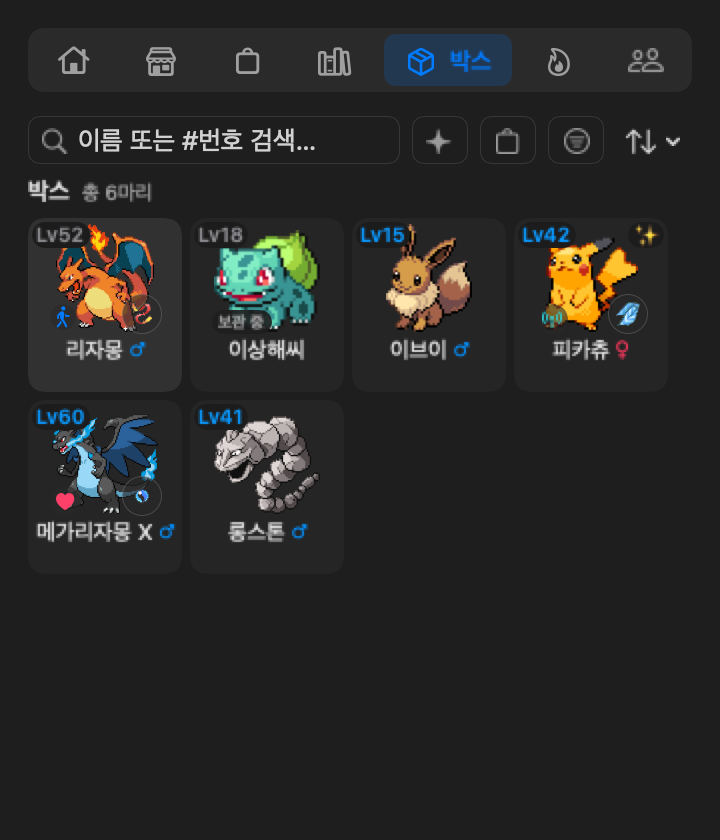
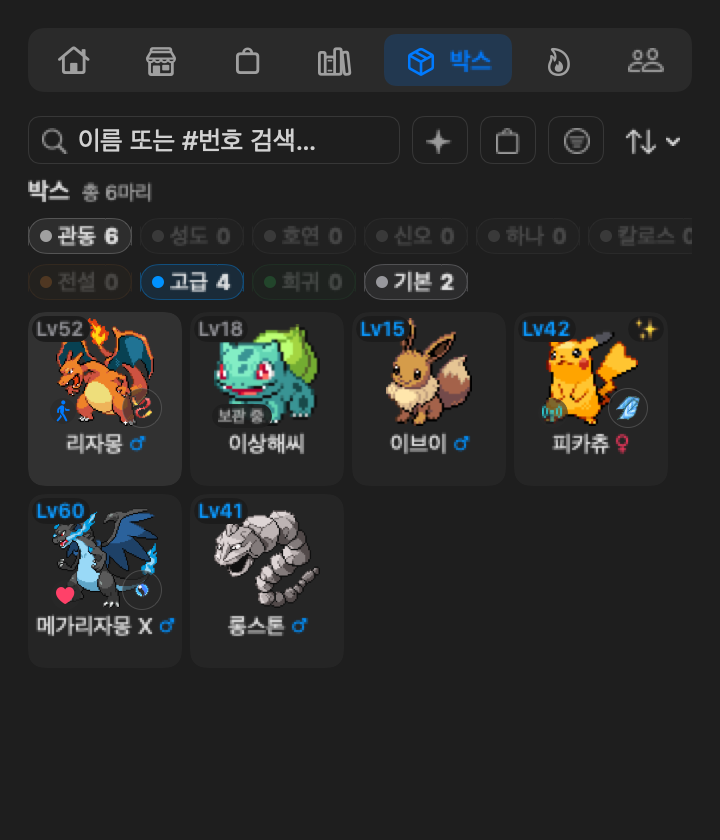
landing: describe the battle sub-tabs, Box region and grade chips and localized move names, and redraw the Box, profile and Home images

Changed region(s): [[0.0306, 0.2476, 0.6722, 0.7738], [0.7028, 0.2476, 0.9167, 0.5571]]

diff --git a/app.js b/app.js
@@ -155,13 +155,13 @@ const I18N = {
     "k3.t": "Lighter costs",
     "k3.d": "Growth costs and Shop prices are one fifth of the original app’s, set for a typical day of about 44M tokens. A Normal line graduates at 150M tokens and a Legendary at 1.2B. Saves from older versions were converted when the change shipped.",
     "k4.t": "Battle tab and gyms",
-    "k4.d": "With the YPoke Slack battle bot linked, the Battle tab lines up to six Pokémon in fighting order; Auto sends the one you are raising. Each region has eight gym leaders, and your team fights at Lv50 or below. A win earns a badge for the badge case and can grant a TM.",
+    "k4.d": "With the YPoke Slack battle bot linked, the Battle tab lines up to six Pokémon in fighting order; Auto sends the one you are raising. Each region has eight gym leaders, and your team fights at Lv50 or below. A win earns a badge for the badge case and can grant a TM. Sub-tabs split the tab into Entry, Battle and History.",
     "alt.gyms": "Native gym list sample with Kanto leaders, the Elite Four, the hideout and the badge case",
     "k5.t": "The Elite Four and the champion",
     "k5.d": "Eight badges open the Elite Four run. The hideout is a run of battles with a full heal before each one, and a loss starts it again. The champion brings the region’s legendaries and hides one more partner, shown as +1 ?, until the first six faint. Beating the champion opens a hidden boss whose first clear pays a strong TM, a shiny legendary egg and Rare Candies. Each gym fight can be replayed turn by turn.",
     "alt.champion": "Native Elite Four run sample where the champion's hidden partner comes out",
     "k6.t": "The Box",
-    "k6.d": "The Box tab holds every Pokémon you own: the one you raise, your friends and your graduates. Search, filter by Shiny or held item, and sort. A new egg sends your current Pokémon here instead of releasing it, and you can pick a graduate to raise again.",
+    "k6.d": "The Box tab holds every Pokémon you own: the one you raise, your friends and your graduates. Search, filter by region, grade, Shiny or held item, and sort. A new egg sends your current Pokémon here instead of releasing it, and you can pick a graduate to raise again.",
     "alt.box": "Native Box tab sample with five Pokémon, their levels, marks and held items",
     "k15.t": "See what comes next",
     "k15.d": "A Pokédex page shows how the species evolves next and what the app asks for, like Munchlax’s 30 pets to become Snorlax. When the Pokémon you raise is on that path, the card shows its progress. On Home, tap the next form to open its page.",
@@ -170,7 +170,7 @@ const I18N = {
     "k7.d": "Equip a held item on a Pokémon’s Box page. The Shop and Bag group battle items by what they do, from attack boosts to weather. A Pokémon holding its Mega Stone Mega Evolves at the start of a battle, and Home, the floating pet and the menu bar show the Mega form.",
     "alt.held": "Native Shop and Bag sample with held items under Attack boost and Type boost",
     "k8.t": "Moves and TMs",
-    "k8.d": "A Pokémon’s Box page lists its four moves, and you can swap one for a level-up, egg or TM move, including status moves like Swords Dance. Buy a TM once in the Shop and every Pokémon that can learn it may use it. Each slot is its own card, and ▲/▼ swap it with its neighbor to set the order.",
+    "k8.d": "A Pokémon’s Box page lists its four moves, and you can swap one for a level-up, egg or TM move, including status moves like Swords Dance. Buy a TM once in the Shop and every Pokémon that can learn it may use it. Each slot is its own card, and ▲/▼ swap it with its neighbor to set the order. Move names follow the app language.",
     "alt.profile": "Native Box detail sample with a Pokémon's stats, held item, Exp. Share slot and moves",
     "k16.t": "Ability, nature, IVs and form",
     "k16.d": "Your Pokémon can field what a gym trainer’s team does. The Mint opens a 5×5 chart and sets the nature you pick. The Ability Capsule and Patch switch abilities, and Bottle Caps raise IVs to 31. The Reveal Glass, DNA Splicers and Reins of Unity switch forms, and a form brings its own types, ability and stats to battle.",
@@ -438,13 +438,13 @@ const I18N = {
     "k3.t": "가벼워진 비용",
     "k3.d": "성장 비용과 상점 가격이 원작의 5분의 1이에요. 하루 44M 토큰쯤 쓰는 보통의 하루에 맞췄어요. 기본 등급 라인은 150M 토큰, 전설은 1.2B 토큰이면 졸업해요. 예전 버전의 저장 데이터는 이 변경이 나갈 때 함께 바뀌었어요.",
     "k4.t": "대결 탭과 체육관",
-    "k4.d": "YPoke 슬랙 대결 봇을 연결하면 대결 탭에 최대 여섯 마리를 나갈 순서대로 세워요. 자동이면 지금 키우는 포켓몬이 나가요. 지방마다 관장이 여덟 명 있고, 내 팀은 Lv50 이하로 맞춰 싸워요. 이기면 배지 케이스에 배지가 들어가고 기술머신을 받을 수도 있어요.",
+    "k4.d": "YPoke 슬랙 대결 봇을 연결하면 대결 탭에 최대 여섯 마리를 나갈 순서대로 세워요. 자동이면 지금 키우는 포켓몬이 나가요. 지방마다 관장이 여덟 명 있고, 내 팀은 Lv50 이하로 맞춰 싸워요. 이기면 배지 케이스에 배지가 들어가고 기술머신을 받을 수도 있어요. 탭 안은 엔트리·배틀·기록으로 나뉘어요.",
     "alt.gyms": "관동 관장·사천왕·아지트·배지 케이스를 보여 주는 실제 체육관 목록 UI 샘플",
     "k5.t": "사천왕과 챔피언",
     "k5.d": "배지 여덟 개면 사천왕 연전이 열려요. 아지트는 판마다 완전히 회복하고 싸우는 연전이고, 지면 처음부터 다시 해요. 챔피언은 그 지방의 전설을 데려오고, +1 ?로만 보이는 파트너 하나를 앞의 여섯 마리가 쓰러질 때까지 숨겨 둬요. 챔피언을 이기면 숨겨진 강자가 열리고, 처음 이기면 강한 기술머신, 빛나는 전설의 알, 이상한사탕을 받아요. 체육관 대결은 턴마다 다시 볼 수 있어요.",
     "alt.champion": "챔피언이 숨긴 파트너가 나오는 실제 사천왕 연전 UI 샘플",
     "k6.t": "박스",
-    "k6.d": "박스 탭에는 키우는 포켓몬, 친구, 졸업한 포켓몬까지 내가 가진 모든 개체가 있어요. 검색하고, 이로치·지닌 도구로 거르고, 정렬할 수 있어요. 새 알을 받으면 지금 포켓몬을 놓아주지 않고 박스로 보내고, 졸업한 포켓몬을 골라 다시 키울 수도 있어요.",
+    "k6.d": "박스 탭에는 키우는 포켓몬, 친구, 졸업한 포켓몬까지 내가 가진 모든 개체가 있어요. 검색하고, 지역·등급·이로치·지닌 도구로 거르고, 정렬할 수 있어요. 새 알을 받으면 지금 포켓몬을 놓아주지 않고 박스로 보내고, 졸업한 포켓몬을 골라 다시 키울 수도 있어요.",
     "alt.box": "포켓몬 다섯 마리의 레벨·표시·지닌 도구가 보이는 실제 박스 탭 UI 샘플",
     "k15.t": "다음 진화가 보이는 도감",
     "k15.d": "도감 페이지에서 그 포켓몬이 다음에 무엇으로 진화하는지, 앱에서는 무엇이 필요한지 보여 줘요. 먹고자는 30번 쓰다듬으면 잠만보가 돼요. 키우는 포켓몬이 그 길 위에 있으면 카드에 진행도가 나와요. 홈에서 다음 모습을 누르면 그 페이지가 열려요.",
@@ -453,7 +453,7 @@ const I18N = {
     "k7.d": "지닌 도구는 포켓몬의 박스 페이지에서 달아요. 상점과 가방은 대결용 도구를 공격 강화부터 날씨까지 하는 일별로 묶어 보여 줘요. 메가스톤을 지닌 포켓몬은 대결이 시작될 때 메가진화하고, 홈·플로팅 펫·메뉴바에도 메가진화한 모습이 보여요.",
     "alt.held": "공격 강화·타입 강화 아래에 지닌 도구가 놓인 실제 상점·가방 UI 샘플",
     "k8.t": "기술과 기술머신",
-    "k8.d": "포켓몬의 박스 페이지에 기술 네 개가 나오고, 레벨업·알 기술이나 기술머신 기술로 하나씩 바꿀 수 있어요. 칼춤 같은 변화 기술도 돼요. 기술머신은 상점에서 한 번 사면 배울 수 있는 모든 포켓몬이 쓸 수 있어요. 기술칸은 칸마다 카드로 나뉘고, ▲/▼로 옆 칸과 자리를 바꿔 순서를 정해요.",
+    "k8.d": "포켓몬의 박스 페이지에 기술 네 개가 나오고, 레벨업·알 기술이나 기술머신 기술로 하나씩 바꿀 수 있어요. 칼춤 같은 변화 기술도 돼요. 기술머신은 상점에서 한 번 사면 배울 수 있는 모든 포켓몬이 쓸 수 있어요. 기술칸은 칸마다 카드로 나뉘고, ▲/▼로 옆 칸과 자리를 바꿔 순서를 정해요. 기술 이름은 앱 언어로 나와요.",
     "alt.profile": "능력치·지닌 도구·학습장치 칸·기술을 보여 주는 실제 박스 상세 UI 샘플",
     "k16.t": "특성·성격·개체값·폼",
     "k16.d": "체육관 트레이너의 팀이 갖출 수 있는 것은 내 포켓몬도 갖출 수 있어요. 민트는 5×5 성격표를 열고 고른 성격으로 바꿔 줘요. 특성캡슐과 특성패치는 특성을 바꾸고, 병뚜껑은 개체값을 31로 올려요. 비추는거울·유전자쐐기·유대의고삐는 폼을 바꾸고, 폼의 타입·특성·능력치가 그대로 배틀에 나가요.",
@@ -721,13 +721,13 @@ const I18N = {
     "k3.t": "軽くなったコスト",
     "k3.d": "成長コストとショップの価格は、オリジナルの5分の1です。1日におよそ44Mトークンを使う、ふつうの1日に合わせています。ノーマルの進化ラインは150Mトークン、伝説は1.2Bトークンで卒業します。古いバージョンのセーブは、この変更のときに一緒に変換されました。",
     "k4.t": "バトルタブとジム",
-    "k4.d": "YPoke の Slack バトルボットと連携すると、バトルタブに最大6匹を出る順に並べられます。自動ならいま育てているポケモンが出ます。地方ごとに8人のジムリーダーがいて、こちらのチームはLv50以下で戦います。勝つとバッジケースにバッジが入り、わざマシンがもらえることもあります。",
+    "k4.d": "YPoke の Slack バトルボットと連携すると、バトルタブに最大6匹を出る順に並べられます。自動ならいま育てているポケモンが出ます。地方ごとに8人のジムリーダーがいて、こちらのチームはLv50以下で戦います。勝つとバッジケースにバッジが入り、わざマシンがもらえることもあります。タブの中はエントリー・バトル・履歴に分かれます。",
     "alt.gyms": "カントーのジムリーダー・四天王・アジト・バッジケースを示す実際のジム一覧UIサンプル",
     "k5.t": "四天王とチャンピオン",
     "k5.d": "バッジ8個で四天王の連戦が開きます。アジトは毎回全回復してから戦う連戦で、負けると最初からやり直しです。チャンピオンはその地方の伝説を連れてきて、+1 ? とだけ表示されるパートナーを、先の6匹がひんしになるまで隠しています。チャンピオンに勝つと隠れた強者が現れ、初勝利で強力なわざマシン、色違いの伝説のタマゴ、ふしぎなアメがもらえます。ジムのバトルはターンごとに見返せます。",
     "alt.champion": "チャンピオンが隠したパートナーが出てくる実際の四天王連戦UIサンプル",
     "k6.t": "ボックス",
-    "k6.d": "ボックスタブには、育成中・フレンド・卒業したポケモンまで、持っているすべての個体が並びます。検索、色違い・もちものでの絞り込み、並べ替えができます。新しいタマゴを迎えると、いまのポケモンは逃がさずボックスへ。卒業したポケモンを選んで、もう一度育てることもできます。",
+    "k6.d": "ボックスタブには、育成中・フレンド・卒業したポケモンまで、持っているすべての個体が並びます。検索、地方・ランク・色違い・もちものでの絞り込み、並べ替えができます。新しいタマゴを迎えると、いまのポケモンは逃がさずボックスへ。卒業したポケモンを選んで、もう一度育てることもできます。",
     "alt.box": "ポケモン5匹のレベル・マーク・もちものが見える実際のボックスタブUIサンプル",
     "k15.t": "次の進化が見える図鑑",
     "k15.d": "図鑑ページで、そのポケモンが次に何へ進化するか、アプリでは何が必要かを表示します。ゴンベは30回なでるとカビゴンになります。育てているポケモンがその途中にいれば、カードに進み具合が出ます。ホームで次の姿を押すと、そのページが開きます。",
@@ -736,7 +736,7 @@ const I18N = {
     "k7.d": "もちものはポケモンのボックスページで持たせます。ショップとバッグでは、バトル用の道具を攻撃アップから天気まで、役割ごとにまとめて表示します。メガストーンを持ったポケモンはバトルの開始時にメガシンカし、ホーム・デスクトップペット・メニューバーでもメガシンカした姿になります。",
     "alt.held": "攻撃アップ・タイプ強化の見出しの下にもちものが並ぶ実際のショップ・バッグUIサンプル",
     "k8.t": "わざとわざマシン",
-    "k8.d": "ポケモンのボックスページには4つのわざが並び、レベルアップわざ・タマゴわざ・わざマシンのわざと1つずつ入れ替えられます。つるぎのまいのような変化わざも使えます。わざマシンはショップで一度買えば、覚えられるすべてのポケモンが使えます。技の枠は一つずつカードに分かれ、▲/▼で隣の枠と入れ替えて順番を決められます。",
+    "k8.d": "ポケモンのボックスページには4つのわざが並び、レベルアップわざ・タマゴわざ・わざマシンのわざと1つずつ入れ替えられます。つるぎのまいのような変化わざも使えます。わざマシンはショップで一度買えば、覚えられるすべてのポケモンが使えます。技の枠は一つずつカードに分かれ、▲/▼で隣の枠と入れ替えて順番を決められます。わざの名前はアプリの言語で表示されます。",
     "alt.profile": "能力値・もちもの・がくしゅうそうちの枠・技を示す実際のボックス詳細UIサンプル",
     "k16.t": "とくせい・性格・個体値・フォルム",
     "k16.d": "ジムトレーナーのチームが持てるものは、あなたのポケモンも持てます。ミントは5×5の性格表を開き、選んだ性格に変えます。とくせいカプセルとパッチはとくせいを変え、おうかんは個体値を31に上げます。うつしかがみ・いでんしのくさび・キズナのタヅナはフォルムを変え、フォルムのタイプ・とくせい・能力はそのままバトルに出ます。",

diff --git a/index.html b/index.html
@@ -96,12 +96,12 @@ try { var savedTheme=localStorage.getItem('ptb-theme'); if(savedTheme==='dark'||
 <article class="fork-card"><h3 data-i18n="k1.t">The full Pokédex, Gen 1 to 9</h3><p data-i18n="k1.d">The Pokédex runs to #1025, and an egg can start any of 540 Gen 1–9 lines. A legendary hatch is about 1 in 48. The regional filter covers nine regions, Kanto to Paldea, and the national badge counts all 1,025.</p></article>
 <article class="fork-card"><h3 data-i18n="k2.t">Time mode and click growth</h3><p data-i18n="k2.d">Grow from active time instead of tokens, and click your partner to help it along. Both are described above under Two ways to grow.</p><a class="text-link" href="#modes" data-i18n="k2.link">See the two modes</a></article>
 <article class="fork-card"><h3 data-i18n="k3.t">Lighter costs</h3><p data-i18n="k3.d">Growth costs and Shop prices are one fifth of the original app’s, set for a typical day of about 44M tokens. A Normal line graduates at 150M tokens and a Legendary at 1.2B. Saves from older versions were converted when the change shipped.</p></article>
-<article class="fork-card"><h3 data-i18n="k4.t">Battle tab and gyms</h3><p data-i18n="k4.d">With the YPoke Slack battle bot linked, the Battle tab lines up to six Pokémon in fighting order; Auto sends the one you are raising. Each region has eight gym leaders, and your team fights at Lv50 or below. A win earns a badge for the badge case and can grant a TM.</p><figure class="crop"><img src="assets/screenshot-gyms.png" data-i18n-image="screenshot-gyms" width="720" height="1984" loading="lazy" data-i18n-alt="alt.gyms" alt="Native gym list sample with Kanto leaders, the Elite Four, the hideout and the badge case"><figcaption data-i18n="native.current">Native UI renders · sample states</figcaption></figure></article>
+<article class="fork-card"><h3 data-i18n="k4.t">Battle tab and gyms</h3><p data-i18n="k4.d">With the YPoke Slack battle bot linked, the Battle tab lines up to six Pokémon in fighting order; Auto sends the one you are raising. Each region has eight gym leaders, and your team fights at Lv50 or below. A win earns a badge for the badge case and can grant a TM. Sub-tabs split the tab into Entry, Battle and History.</p><figure class="crop"><img src="assets/screenshot-gyms.png" data-i18n-image="screenshot-gyms" width="720" height="1984" loading="lazy" data-i18n-alt="alt.gyms" alt="Native gym list sample with Kanto leaders, the Elite Four, the hideout and the badge case"><figcaption data-i18n="native.current">Native UI renders · sample states</figcaption></figure></article>
 <article class="fork-card"><h3 data-i18n="k5.t">The Elite Four and the champion</h3><p data-i18n="k5.d">Eight badges open the Elite Four run. The hideout is a run of battles with a full heal before each one, and a loss starts it again. The champion brings the region’s legendaries and hides one more partner, shown as +1 ?, until the first six faint. Beating the champion opens a hidden boss whose first clear pays a strong TM, a shiny legendary egg and Rare Candies. Each gym fight can be replayed turn by turn.</p><figure><img src="assets/screenshot-champion-finale.png" data-i18n-image="screenshot-champion-finale" width="720" height="726" loading="lazy" data-i18n-alt="alt.champion" alt="Native Elite Four run sample where the champion's hidden partner comes out"><figcaption data-i18n="native.current">Native UI renders · sample states</figcaption></figure></article>
-<article class="fork-card"><h3 data-i18n="k6.t">The Box</h3><p data-i18n="k6.d">The Box tab holds every Pokémon you own: the one you raise, your friends and your graduates. Search, filter by Shiny or held item, and sort. A new egg sends your current Pokémon here instead of releasing it, and you can pick a graduate to raise again.</p><figure><img src="assets/screenshot-collection-box.png" data-i18n-image="screenshot-collection-box" width="720" height="840" loading="lazy" data-i18n-alt="alt.box" alt="Native Box tab sample with five Pokémon, their levels, marks and held items"><figcaption data-i18n="native.current">Native UI renders · sample states</figcaption></figure></article>
+<article class="fork-card"><h3 data-i18n="k6.t">The Box</h3><p data-i18n="k6.d">The Box tab holds every Pokémon you own: the one you raise, your friends and your graduates. Search, filter by region, grade, Shiny or held item, and sort. A new egg sends your current Pokémon here instead of releasing it, and you can pick a graduate to raise again.</p><figure><img src="assets/screenshot-collection-box.png" data-i18n-image="screenshot-collection-box" width="720" height="840" loading="lazy" data-i18n-alt="alt.box" alt="Native Box tab sample with five Pokémon, their levels, marks and held items"><figcaption data-i18n="native.current">Native UI renders · sample states</figcaption></figure></article>
 <article class="fork-card"><h3 data-i18n="k15.t">See what comes next</h3><p data-i18n="k15.d">A Pokédex page shows how the species evolves next and what the app asks for, like Munchlax’s 30 pets to become Snorlax. When the Pokémon you raise is on that path, the card shows its progress. On Home, tap the next form to open its page.</p><figure><img src="assets/screenshot-dex-next-evolution.png" data-i18n-image="screenshot-dex-next-evolution" width="720" height="1020" loading="lazy" data-i18n-alt="alt.nextEvo" alt="Native Pokédex page sample for Snorlax with the 30-pet condition at 3/30"><figcaption data-i18n="native.current">Native UI renders · sample states</figcaption></figure></article>
 <article class="fork-card"><h3 data-i18n="k7.t">Held items and Mega Evolution</h3><p data-i18n="k7.d">Equip a held item on a Pokémon’s Box page. The Shop and Bag group battle items by what they do, from attack boosts to weather. A Pokémon holding its Mega Stone Mega Evolves at the start of a battle, and Home, the floating pet and the menu bar show the Mega form.</p><figure class="crop"><img src="assets/screenshot-held-items.png" data-i18n-image="screenshot-held-items" width="720" height="1638" loading="lazy" data-i18n-alt="alt.held" alt="Native Shop and Bag sample with held items under Attack boost and Type boost"><figcaption data-i18n="native.current">Native UI renders · sample states</figcaption></figure></article>
-<article class="fork-card"><h3 data-i18n="k8.t">Moves and TMs</h3><p data-i18n="k8.d">A Pokémon’s Box page lists its four moves, and you can swap one for a level-up, egg or TM move, including status moves like Swords Dance. Buy a TM once in the Shop and every Pokémon that can learn it may use it. Each slot is its own card, and ▲/▼ swap it with its neighbor to set the order.</p><figure class="crop"><img src="assets/screenshot-pokemon-profile.png" data-i18n-image="screenshot-pokemon-profile" width="720" height="1120" loading="lazy" data-i18n-alt="alt.profile" alt="Native Box detail sample with a Pokémon's stats, held item, Exp. Share slot and moves"><figcaption data-i18n="native.current">Native UI renders · sample states</figcaption></figure></article>
+<article class="fork-card"><h3 data-i18n="k8.t">Moves and TMs</h3><p data-i18n="k8.d">A Pokémon’s Box page lists its four moves, and you can swap one for a level-up, egg or TM move, including status moves like Swords Dance. Buy a TM once in the Shop and every Pokémon that can learn it may use it. Each slot is its own card, and ▲/▼ swap it with its neighbor to set the order. Move names follow the app language.</p><figure class="crop"><img src="assets/screenshot-pokemon-profile.png" data-i18n-image="screenshot-pokemon-profile" width="720" height="1120" loading="lazy" data-i18n-alt="alt.profile" alt="Native Box detail sample with a Pokémon's stats, held item, Exp. Share slot and moves"><figcaption data-i18n="native.current">Native UI renders · sample states</figcaption></figure></article>
 <article class="fork-card"><h3 data-i18n="k16.t">Ability, nature, IVs and form</h3><p data-i18n="k16.d">Your Pokémon can field what a gym trainer’s team does. The Mint opens a 5×5 chart and sets the nature you pick. The Ability Capsule and Patch switch abilities, and Bottle Caps raise IVs to 31. The Reveal Glass, DNA Splicers and Reins of Unity switch forms, and a form brings its own types, ability and stats to battle.</p><figure class="crop crop-low"><img src="assets/screenshot-nature-picker.png" data-i18n-image="screenshot-nature-picker" width="720" height="2240" loading="lazy" data-i18n-alt="alt.naturePicker" alt="Native Box detail sample with the 5×5 nature chart open, the Ability Capsule, Ability Patch and Gold Bottle Cap, and a Bottle Cap on each IV"><figcaption data-i18n="native.current">Native UI renders · sample states</figcaption></figure></article>
 <article class="fork-card"><h3 data-i18n="k9.t">Exp. Share</h3><p data-i18n="k9.d">Attach an Exp. Share to one Pokémon in the Box. It gets 50% of the EXP your current Pokémon or egg earns, so a graduate keeps growing while you raise the next one. When a new egg sends your partner to the Box, an Exp. Share from your Bag goes on it. Move here on a Box page moves a copy from another holder, even with an empty Bag, and a holder in the Box evolves there when the next step needs only EXP, a level, friends or a type.</p><figure><img src="assets/screenshot-exp-share.png" data-i18n-image="screenshot-exp-share" width="720" height="760" loading="lazy" data-i18n-alt="alt.expShare" alt="Native Box detail sample for a stored Bulbasaur with Move here and Attach for the Exp. Share"><figcaption data-i18n="native.current">Native UI renders · sample states</figcaption></figure></article>
 <article class="fork-card"><h3 data-i18n="k11.t">Friends beside your partner</h3><p data-i18n="k11.d">Pick up to two friends from your graduates and the Pokémon waiting in the Box. They stand next to your partner on Home and on the floating pet in their current form, and petting a friend pops a heart over it. When a new egg or a scout sends your partner to the Box while a slot is free, it joins as a friend.</p><figure><img src="assets/screenshot-stored-friends.png" data-i18n-image="screenshot-stored-friends" width="720" height="650" loading="lazy" data-i18n-alt="alt.storedFriends" alt="Native friend picker sample offering a stored Bulbasaur, and Home with that Bulbasaur walking beside Charizard"><figcaption data-i18n="native.current">Native UI renders · sample states</figcaption></figure></article>
@@ -195,5 +195,5 @@ try { var savedTheme=localStorage.getItem('ptb-theme'); if(savedTheme==='dark'||
 </ul><p class="note" data-i18n="providers.note">Limits depend on your login: official Claude, Codex and Antigravity limits, OpenCode Go allowances and Grok CLI subscription credits. Devin CLI and Kimi Code record no cost, so their cost shows as unavailable.</p></div></section>
 <section class="section faq"><div class="wrap faq-layout"><h2 data-i18n="faq.title" >A few good questions.</h2><div><details><summary><span data-i18n="faq.free.q" >Is it free?</span></summary><div class="details-body"><p data-i18n="faq.free.a" >Yes. PokeTokenBar is a free, open-source fan project. Shop items use the tokens you’ve already spent on coding, not real-money purchases.</p></div></details><details><summary><span data-i18n="faq.notool.q">Do I need an AI coding tool?</span></summary><div class="details-body"><p data-i18n="faq.notool.a">No. Time mode grows your partner from the time you are active on your Mac. Usage and limit tracking needs at least one supported tool.</p></div></details><details><summary><span data-i18n="faq.privacy.q" >Does it upload my usage logs?</span></summary><div class="details-body"><p data-i18n="faq.privacy.a" >No. Usage logs stay on your Mac. The app still uses the network for provider usage and limits, Pokémon data and sprites, service status and updates. It is not a fully offline app.</p></div></details><details><summary><span data-i18n="faq.cost.q" >Does raising a Pokémon spend extra tokens?</span></summary><div class="details-body"><p data-i18n="faq.cost.a" >No. The app reads usage from your supported coding tools. It doesn’t run model turns to grow your companion.</p></div></details><details><summary><span data-i18n="faq.fork.q">How is this different from PokeTokenBar?</span></summary><div class="details-body"><p data-i18n="faq.fork.a">PokeTokenBar-yp is an unofficial fork of chattymin’s PokeTokenBar (MIT). It adds the features under Only in PokeTokenBar-yp. Report problems with this fork here, not to the original project.</p><a class="text-link" href="https://github.com/chattymin/PokeTokenBar" target="_blank" rel="noopener">chattymin/PokeTokenBar</a></div></details><details><summary><span data-i18n="faq.source.q" >Can I build it myself?</span></summary><div class="details-body"><p data-i18n="faq.source.a" >Yes. The Swift source, build instructions and issue tracker are on GitHub.</p><a class="text-link" href="https://github.com/w8385/PokeTokenBar-yp" target="_blank" rel="noopener">GitHub</a></div></details></div></div></section>
 </main><footer class="site-footer"><div class="wrap"><div class="footer-top"><a class="brand" href="#top"><img src="assets/icon.png" width="32" height="32" alt=""><span>PokeTokenBar</span></a><nav class="footer-links" data-i18n-aria="aria.project" aria-label="Project links"><a data-i18n="footer.source" href="https://github.com/w8385/PokeTokenBar-yp" target="_blank" rel="noopener">Source code</a><a data-i18n="footer.releases" href="https://github.com/w8385/PokeTokenBar-yp/releases" target="_blank" rel="noopener">Release notes</a><a data-i18n="footer.help" href="https://github.com/w8385/PokeTokenBar-yp/issues" target="_blank" rel="noopener">Get help</a><a data-i18n="footer.upstream" href="https://github.com/chattymin/PokeTokenBar" target="_blank" rel="noopener">Original by chattymin</a><a data-i18n="footer.sponsor" href="https://github.com/sponsors/chattymin" target="_blank" rel="noopener">Sponsor</a></nav></div><p data-i18n="foot.disclaimer" class="disclaimer">Pokémon data &amp; sprites by PokéAPI. This is an unofficial, non-commercial fan project. It is not affiliated with, endorsed, sponsored, or approved by Nintendo, Game Freak, or The Pokémon Company. Pokémon and Pokémon character names are trademarks of Nintendo; names, data, and sprites are © Nintendo / Game Freak / The Pokémon Company, used at runtime for identification only. The MIT license covers this project's source code only.</p></div></footer>
-<script src="app.js?v=cba54a03" defer></script>
+<script src="app.js?v=ced45874" defer></script>
 </body></html>
